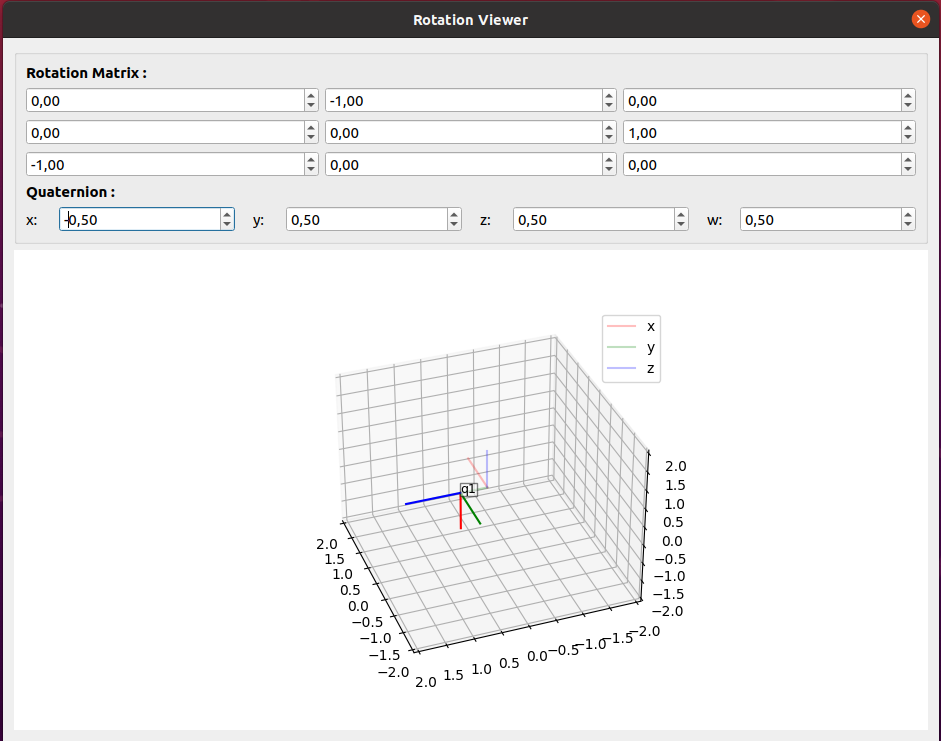
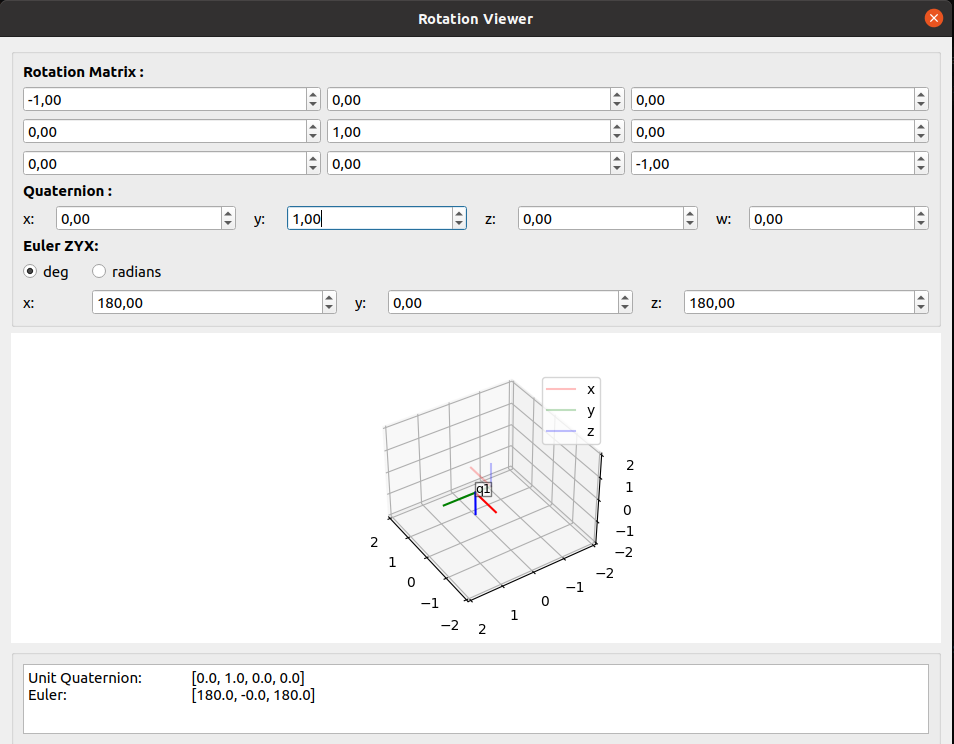
GUI proto fully complete

diff --git a/python/src/transforms_package/test.py b/python/src/transforms_package/test.py
@@ -1,4 +1,4 @@
-from PyQt5 import QtWidgets, QtGui
+from PyQt5 import QtWidgets, QtGui, QtCore
 import matplotlib
 matplotlib.use('Qt5Agg')
 from matplotlib.figure import Figure
@@ -16,6 +16,8 @@ class Widget(QtWidgets.QDialog):
         self.axes = self.fig.add_subplot(111, projection='3d', azim=170, elev=20)
 
         mainLayout = QtWidgets.QGridLayout()
+
+        # top layout        
         self.topLayout = QtWidgets.QGroupBox()
         self.createTopLayout()
         for box in self.quat_spinboxes:
@@ -24,12 +26,22 @@ class Widget(QtWidgets.QDialog):
         for row in self.rotation_spinboxes:
             for box in row:
                 box.valueChanged.connect(self.rotation_update)
+        
+        for unit in self.units:
+            unit.toggled.connect(self.unit_update)
 
-        bottomLayout = QtWidgets.QVBoxLayout()
-        mainLayout.addLayout(bottomLayout, 0,0,1,1)
+        for box in self.euler_spinboxes:
+            box.valueChanged.connect(self.euler_update)
+
+        # bottom layout
+        self.bottomLayout = QtWidgets.QGroupBox()
+        self.createBottomLayout()
+
+
 
         mainLayout.addWidget(self.topLayout,0, 0)
         mainLayout.addWidget(self.canvas,1,0)
+        mainLayout.addWidget(self.bottomLayout, 2,0)
 
         self.setLayout(mainLayout)
         self.setWindowTitle('Rotation Viewer')
@@ -43,6 +55,7 @@ class Widget(QtWidgets.QDialog):
         for i, row in enumerate(self.rotation_spinboxes):   
             for j, box in enumerate(row):  
                 box.setMinimum(-1.175494e+38) 
+                box.setMaximum(1.175494e+38) 
                 rotation_layout.addWidget(box, i, j)
 
         # Quaternion
@@ -62,37 +75,97 @@ class Widget(QtWidgets.QDialog):
             quat_layout.addWidget(q_labels[i], 0 , j)
             j += 1
             box.setMinimum(-1.175494e+38) 
+            box.setMaximum(1.175494e+38) 
             quat_layout.addWidget(box, 0, j)
             j += 1
 
 
         quat_layout.setHorizontalSpacing(18)
 
+        # euler
+        euler_layout = QtWidgets.QGridLayout()
+
+        self.deg =True
+        self.units = [QtWidgets.QRadioButton("deg"), QtWidgets.QRadioButton("radians")]
+        self.units[0].setChecked(self.deg)
+
+        self.units[0].unit = "deg"
+        self.units[1].unit = "radians"
+
+        for i,unit_box in enumerate(self.units):
+            euler_layout.addWidget(unit_box, 0 , i)
+
+        self.euler_spinboxes = [QtWidgets.QDoubleSpinBox(self.topLayout) for i in labels[:-1]]
+        euler_labels = [QtWidgets.QLabel(label) for label in labels[:-1]]
+        j = 0
+
+        for i, box in enumerate(self.euler_spinboxes):   
+
+            # fix width for UI
+            euler_labels[i].setFixedWidth(label_width)
+
+            euler_layout.addWidget(euler_labels[i], 1 , j)
+            j += 1
+            box.setMinimum(-1.175494e+38) 
+            box.setMaximum(1.175494e+38) 
+            euler_layout.addWidget(box, 1, j)
+            j += 1
+
+
+        euler_layout.setHorizontalSpacing(18)        
+
         rotation_label = QtWidgets.QLabel("Rotation Matrix :")
         quat_label = QtWidgets.QLabel("Quaternion :")
+        euler_label = QtWidgets.QLabel("Euler ZYX:")
         
         bold_font = QtGui.QFont()
         bold_font.setBold(True)
         rotation_label.setFont(bold_font)
         quat_label.setFont(bold_font)
+        euler_label.setFont(bold_font)
+
         layout.addWidget(rotation_label,0)
         layout.addLayout(rotation_layout,1)
         layout.addWidget(quat_label,2)
         layout.addLayout(quat_layout,3)
+        layout.addWidget(euler_label,4)
+        layout.addLayout(euler_layout,5)
         self.topLayout.setLayout(layout)
+    
+    def createBottomLayout(self):
+        bLayout = QtWidgets.QVBoxLayout()
+
+        self.txt = QtWidgets.QTextBrowser(self.bottomLayout)
+        # self.txt.setGeometry(QtCore.QRect(10, 90, 331, 111))
+        self.txt.setGeometry(QtCore.QRect())
+        self.txt.setObjectName("Params")
+        bLayout.addWidget(self.txt, 0)
+        self.bottomLayout.setLayout(bLayout)
 
     def quat_update(self):
         try:
-            print("quaternion update")
+            print("[INFO] quaternion update")
             q = Quaternion([box.value() for box in self.quat_spinboxes])
+
+            
+
+            # update euler
+            for i, val in enumerate(q.to_euler(deg=self.deg)):
+                self.euler_spinboxes[i].blockSignals(True)
+                self.euler_spinboxes[i].setValue(val)
+                self.euler_spinboxes[i].blockSignals(False)
+
+            # update rotation mat
             rotation_matrix = q.to_rotation_matrix()
-
-
             for i,row in enumerate(rotation_matrix):
                 for j, val in enumerate(row):
                     self.rotation_spinboxes[i][j].blockSignals(True)
                     self.rotation_spinboxes[i][j].setValue(val)
                     self.rotation_spinboxes[i][j].blockSignals(False)
+            
+            # update text box
+            self.txt.clear()
+            self.txt.textCursor().insertText(" ".join(["Unit Quaternion:\t", str(q.to_list()), "\nEuler:\t\t", str(q.to_euler(deg=self.deg))]))
 
             self.axes.cla()
             plot_quaternions(self.axes, q)
@@ -105,20 +178,66 @@ class Widget(QtWidgets.QDialog):
     
     def rotation_update(self):
         try:
-            print("rotation update")
+            print("[INFO] rotation update")
             q = Quaternion([[box.value() for box in row ]for row in self.rotation_spinboxes])
 
+            # update euler
+            for i, val in enumerate(q.to_euler(deg=self.deg)):
+                self.euler_spinboxes[i].blockSignals(True)
+                self.euler_spinboxes[i].setValue(val)
+                self.euler_spinboxes[i].blockSignals(False)
+
+            # update quaternion
             
             for i, val in enumerate(q.to_list()):
                 self.quat_spinboxes[i].blockSignals(True)
                 self.quat_spinboxes[i].setValue(val)
                 self.quat_spinboxes[i].blockSignals(False)
+            
+            # update text box
+            self.txt.clear()
+            self.txt.textCursor().insertText(" ".join(["Unit Quaternion:\t", str(q.to_list()), "\nEuler:\t\t", str(q.to_euler(deg=self.deg))]))
 
             self.axes.cla()
             plot_quaternions(self.axes, q)
             self.canvas.draw()
         except:
             self.axes.cla()
+    
+    def euler_update(self):
+        try:
+            print("[INFO] euler angles update")
+            q = Quaternion([box.value() for box in self.euler_spinboxes], deg=self.deg)
+
+            # update quaternion
+            for i, val in enumerate(q.to_list()):
+                self.quat_spinboxes[i].blockSignals(True)
+                self.quat_spinboxes[i].setValue(val)
+                self.quat_spinboxes[i].blockSignals(False)
+
+            # update rotation mat
+            rotation_matrix = q.to_rotation_matrix()
+            for i,row in enumerate(rotation_matrix):
+                for j, val in enumerate(row):
+                    self.rotation_spinboxes[i][j].blockSignals(True)
+                    self.rotation_spinboxes[i][j].setValue(val)
+                    self.rotation_spinboxes[i][j].blockSignals(False)
+            
+            # update text box
+            self.txt.clear()
+            self.txt.textCursor().insertText(" ".join(["Unit Quaternion:\t", str(q.to_list()), "\nEuler:\t\t", str(q.to_euler(deg=self.deg))]))
+
+            self.axes.cla()
+            plot_quaternions(self.axes, q)
+            self.canvas.draw()
+        except Exception as e:
+            print(e)
+            self.axes.cla()
+    
+    def unit_update(self):
+        button = self.sender()
+        self.deg = (button.unit == "deg" and button.isChecked() )
+
 
 
 
